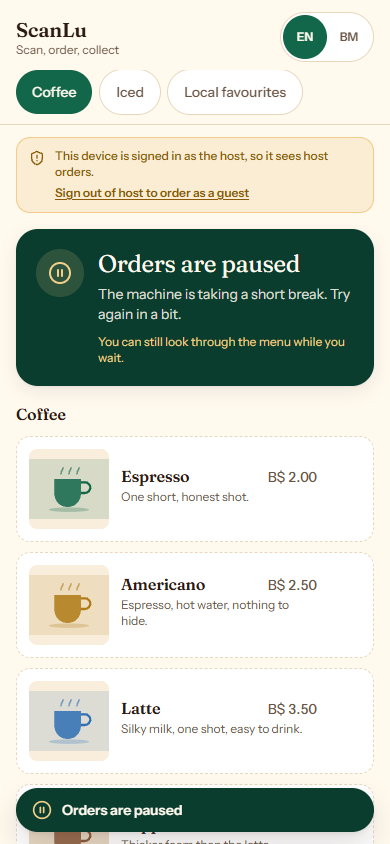
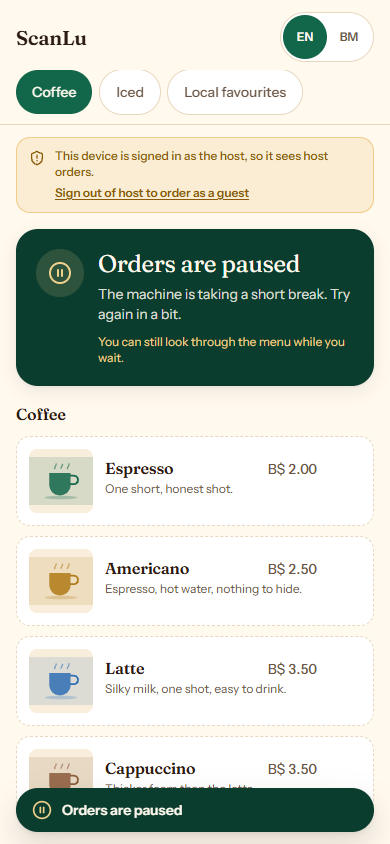
Densify the guest menu and give it a tablet layout
Three complaints from the layout audit, all real.

Cards were tall: an 80px illustration plus a two-line description. The illustration is 64px and the list keeps one line of description, since the full text already lives in the sheet you open to order. A card is now 90px instead of about 110.

Above 768px the menu becomes two columns and the page widens to match, so an iPad shows 11 drinks instead of 5. Below that it is still one full width stack, because two narrow cards read worse than one.

The sticky header is 15% of a normal phone and was 22% of a small one, so the tagline is hidden below 400px wide. Nothing else moved.

Measured at 320, 390, 768 and 1180: no horizontal overflow anywhere, four drinks in view on a small phone, six on a modern one, eleven on a tablet.

diff --git a/src/pages/MenuPage.tsx b/src/pages/MenuPage.tsx
@@ -55,7 +55,7 @@ function MenuItemCard({
           blocked ? 'border-dashed' : 'hover:border-brand-500/50 hover:bg-panel-2/50',
         )}
       >
-        <div className="size-20 shrink-0 overflow-hidden rounded-[var(--radius-sm)] bg-panel-2">
+        <div className="size-16 shrink-0 overflow-hidden rounded-[var(--radius-sm)] bg-panel-2">
           {item.image_url ? (
             <img
               src={item.image_url}
@@ -85,7 +85,10 @@ function MenuItemCard({
               </Chip>
             )}
           </div>
-          <p className="mt-0.5 line-clamp-2 text-xs leading-snug text-ink-muted">{description}</p>
+          {/* One line here, the full text lives in the sheet: the list is for
+              choosing, not reading, and two lines made every card taller than
+              the drink name needed. */}
+          <p className="mt-0.5 line-clamp-1 text-xs leading-snug text-ink-muted">{description}</p>
           <div className="mt-1.5 flex flex-wrap gap-1.5">
             {soldOut ? <Chip tone="muted">{t('menu.soldOut')}</Chip> : null}
             {lowStock && !soldOut ? (
@@ -168,7 +171,7 @@ export function MenuPage() {
             <h1 className="truncate font-display text-xl leading-tight font-semibold text-ink">
               {status.data?.event_name ?? t('menu.title')}
             </h1>
-            <p className="text-xs text-ink-muted">{t('app.tagline')}</p>
+            <p className="hidden text-xs text-ink-muted min-[400px]:block">{t('app.tagline')}</p>
           </div>
           <LanguageToggle />
         </div>
@@ -211,7 +214,7 @@ export function MenuPage() {
         </Banner>
       ) : null}
 
-      <main className="mx-auto w-full max-w-2xl px-4 pt-4">
+      <main className="mx-auto w-full max-w-2xl px-4 pt-4 md:max-w-3xl">
         {primaryActive ? (
           <Link
             to={`/ticket/${primaryActive.id}`}
@@ -307,7 +310,9 @@ export function MenuPage() {
                   <h2 className="mb-2.5 text-base font-semibold text-ink">
                     {i18n.language === 'ms' ? category.name_ms : category.name_en}
                   </h2>
-                  <div className="space-y-2.5">
+                  {/* Two columns only when there is room for two readable cards;
+                      below that this is one full width stack. */}
+                  <div className="grid gap-2.5 md:grid-cols-2">
                     {categoryItems.map((item, index) => (
                       <MenuItemCard
                         key={item.id}
@@ -329,7 +334,7 @@ export function MenuPage() {
       </main>
 
       {ordersClosed ? (
-        <div className="fixed inset-x-0 bottom-0 z-40 mx-auto w-full max-w-2xl px-4 pb-[calc(0.75rem+env(safe-area-inset-bottom))]">
+        <div className="fixed inset-x-0 bottom-0 z-40 mx-auto w-full max-w-2xl px-4 pb-[calc(0.75rem+env(safe-area-inset-bottom))] md:max-w-3xl">
           <div className="flex items-center gap-2.5 rounded-[var(--radius-lg)] bg-brand-900 px-4 py-3 text-cream-50 shadow-[var(--shadow-lift)]">
             <PauseCircle className="size-5 shrink-0 text-gold-300" aria-hidden="true" />
             <div className="min-w-0">
@@ -342,7 +347,7 @@ export function MenuPage() {
         </div>
       ) : cups > 0 ? (
         <div
-          className="fixed inset-x-0 bottom-0 z-40 mx-auto w-full max-w-2xl px-4 pb-[calc(0.75rem+env(safe-area-inset-bottom))]"
+          className="fixed inset-x-0 bottom-0 z-40 mx-auto w-full max-w-2xl px-4 pb-[calc(0.75rem+env(safe-area-inset-bottom))] md:max-w-3xl"
           style={{ animation: 'ticket-in 320ms var(--ease-spring) both' }}
         >
           <button
